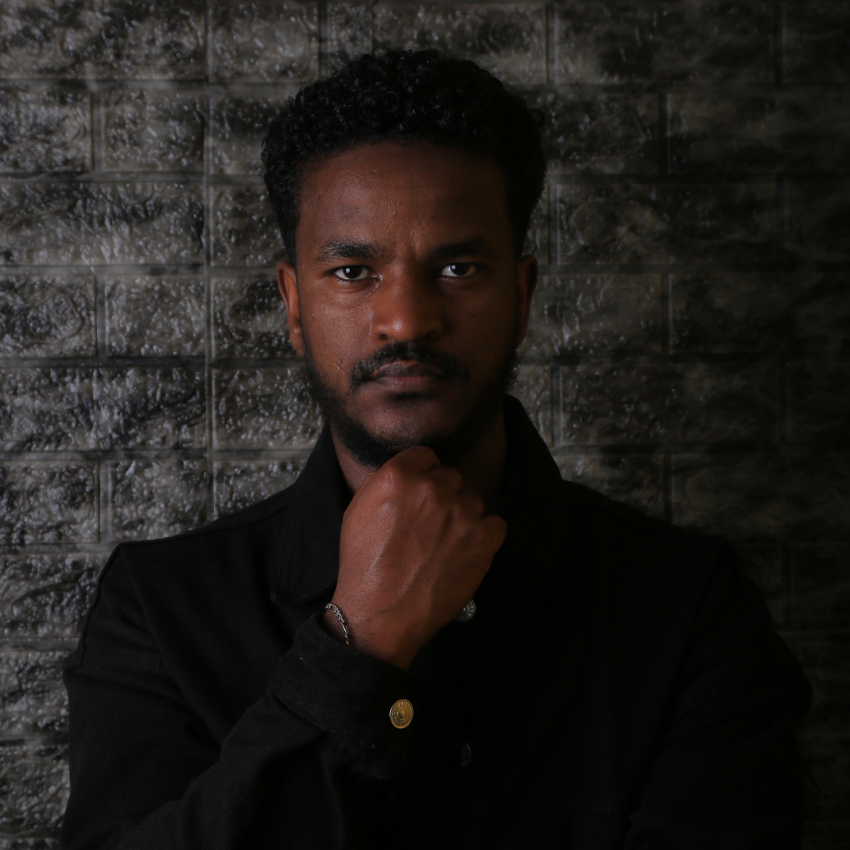
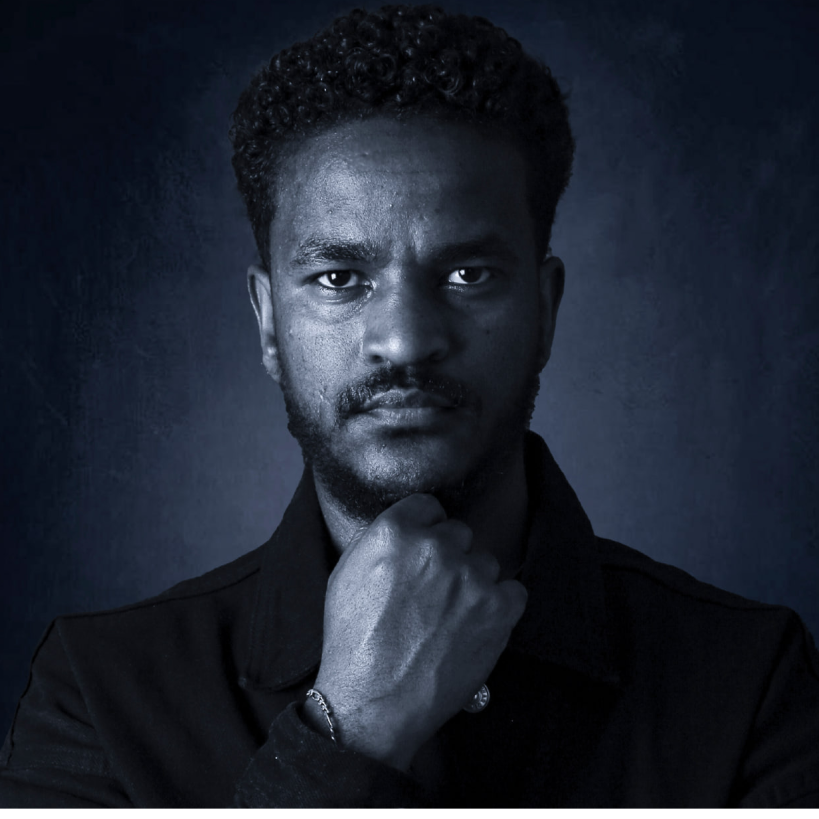
changed header image

diff --git a/src/sections/Introduction.tsx b/src/sections/Introduction.tsx
@@ -81,7 +81,7 @@ const Introduction = () => {
               objectFit="cover"
               height="100%"
               // src={me}
-              src={image}
+              src={me}
             ></Image>
             <SocialMediaContainer section="introduction" />
           </Box>
